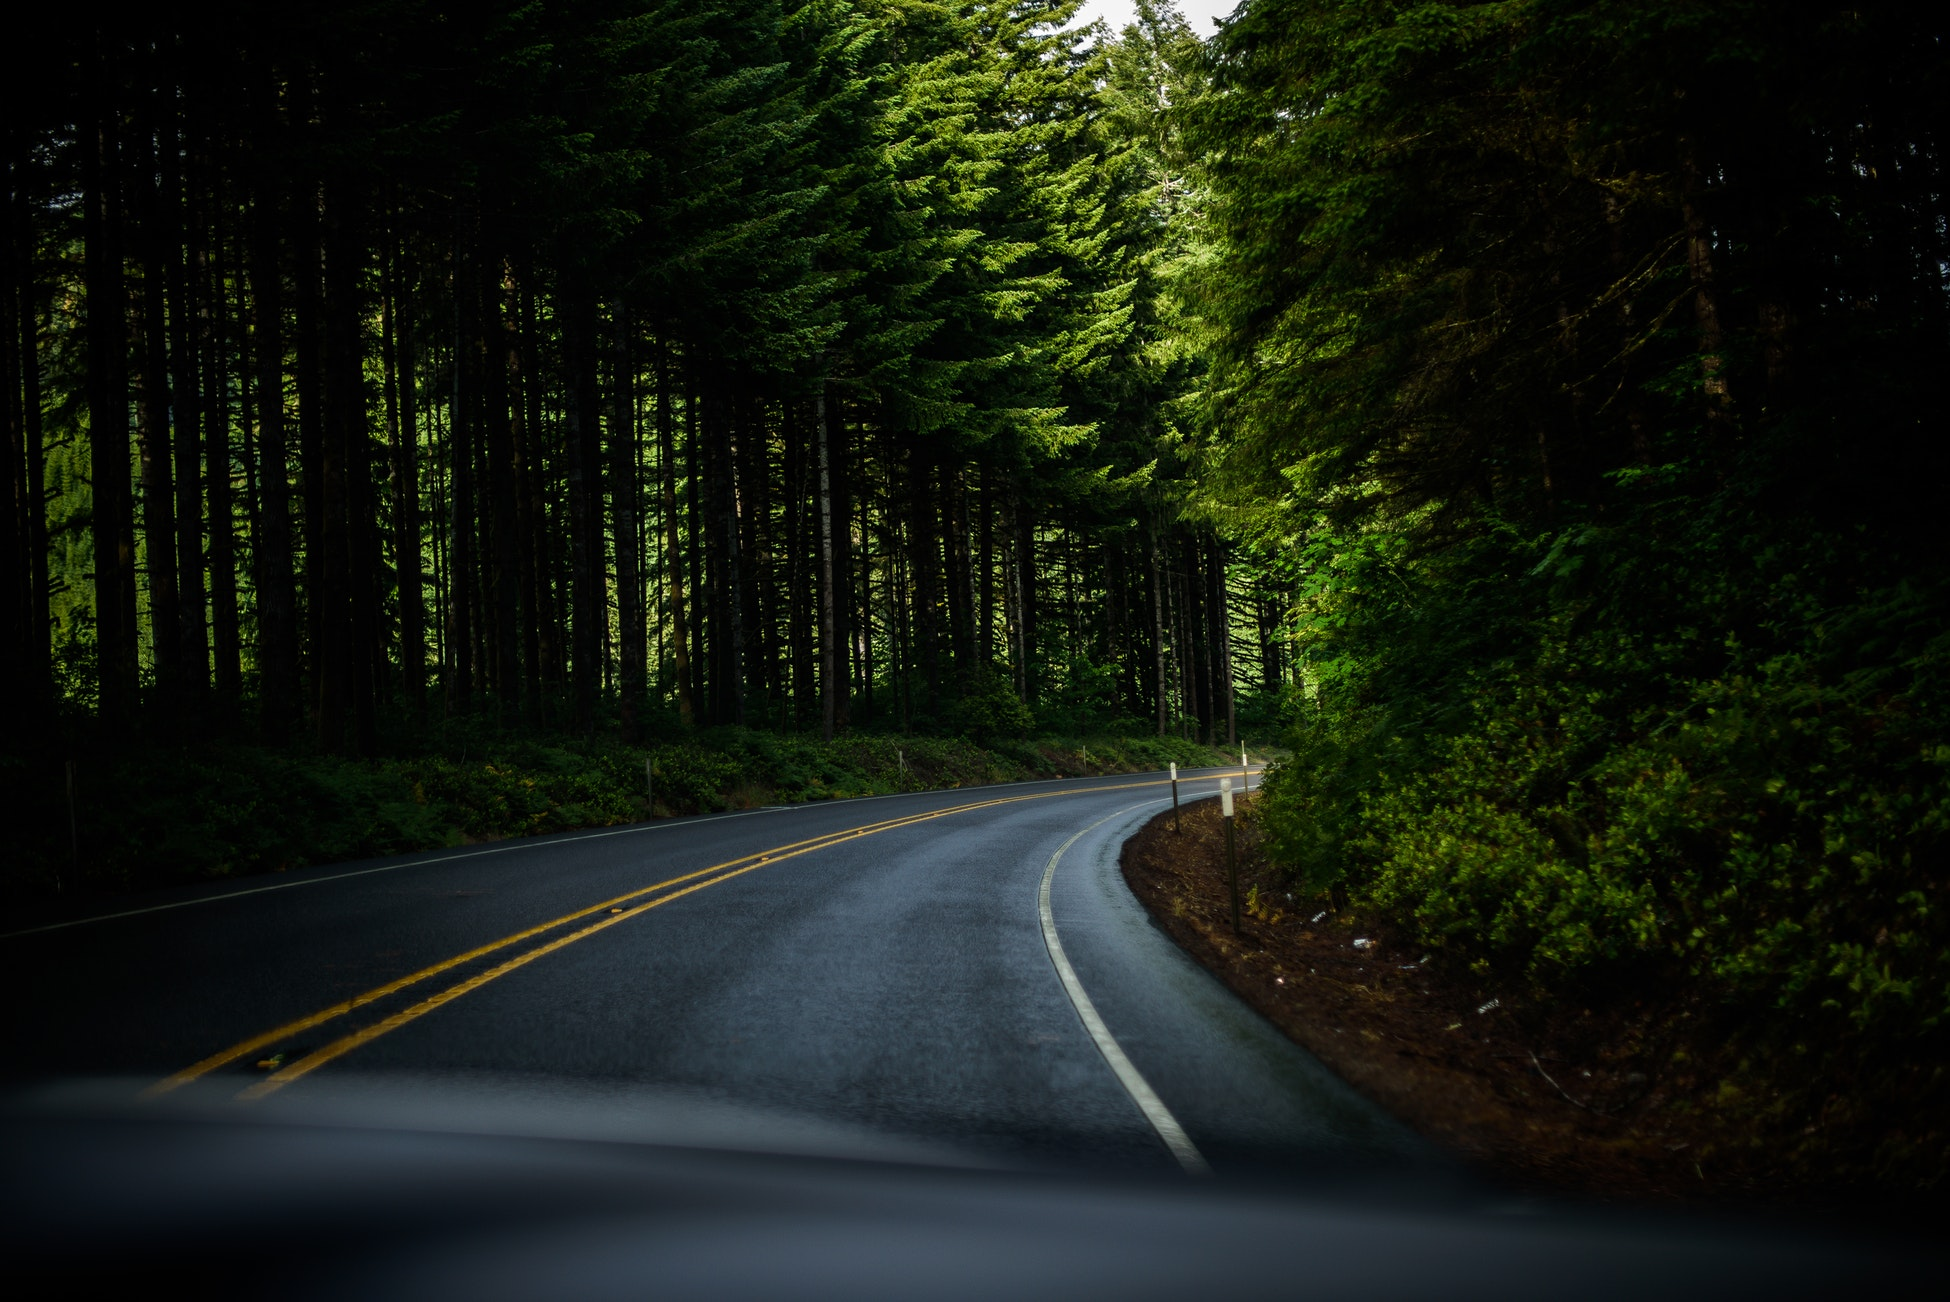
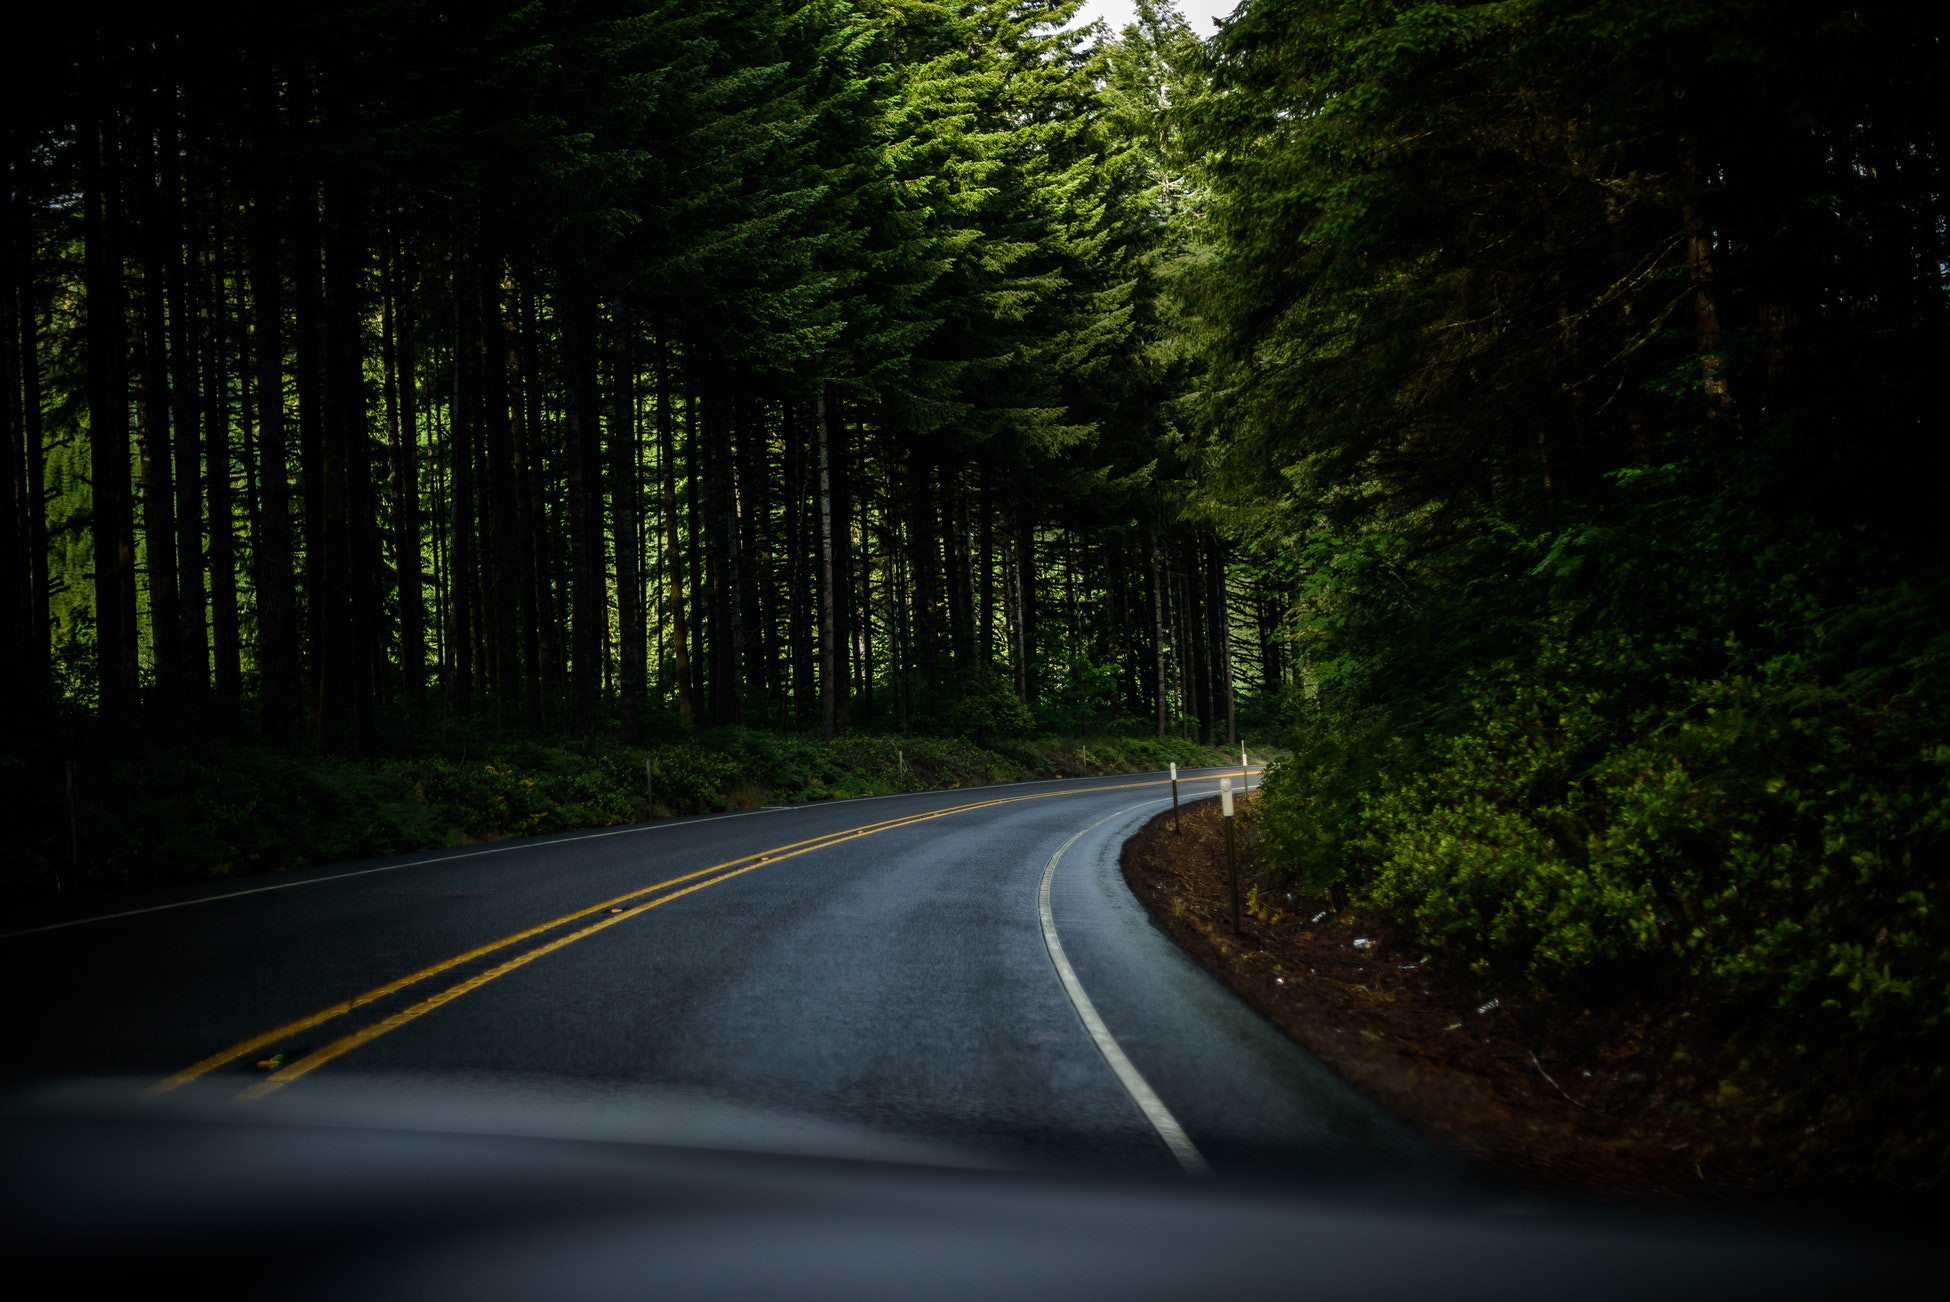
modify background images for dest index and root

Changed region(s): [[0.4923, 0.1536, 0.7385, 0.553], [0.5231, 0.3994, 0.5538, 0.4301]]

diff --git a/app/assets/stylesheets/main.scss b/app/assets/stylesheets/main.scss
@@ -115,7 +115,7 @@ iframe {
 }
 
 #home-hero {
-  background: url(misty-road.jpeg) no-repeat center center fixed;
+  background: url(misty-road1.jpeg) no-repeat center center fixed;
   height: 1050px;
   margin-top: -300px;
   background-size: cover;
